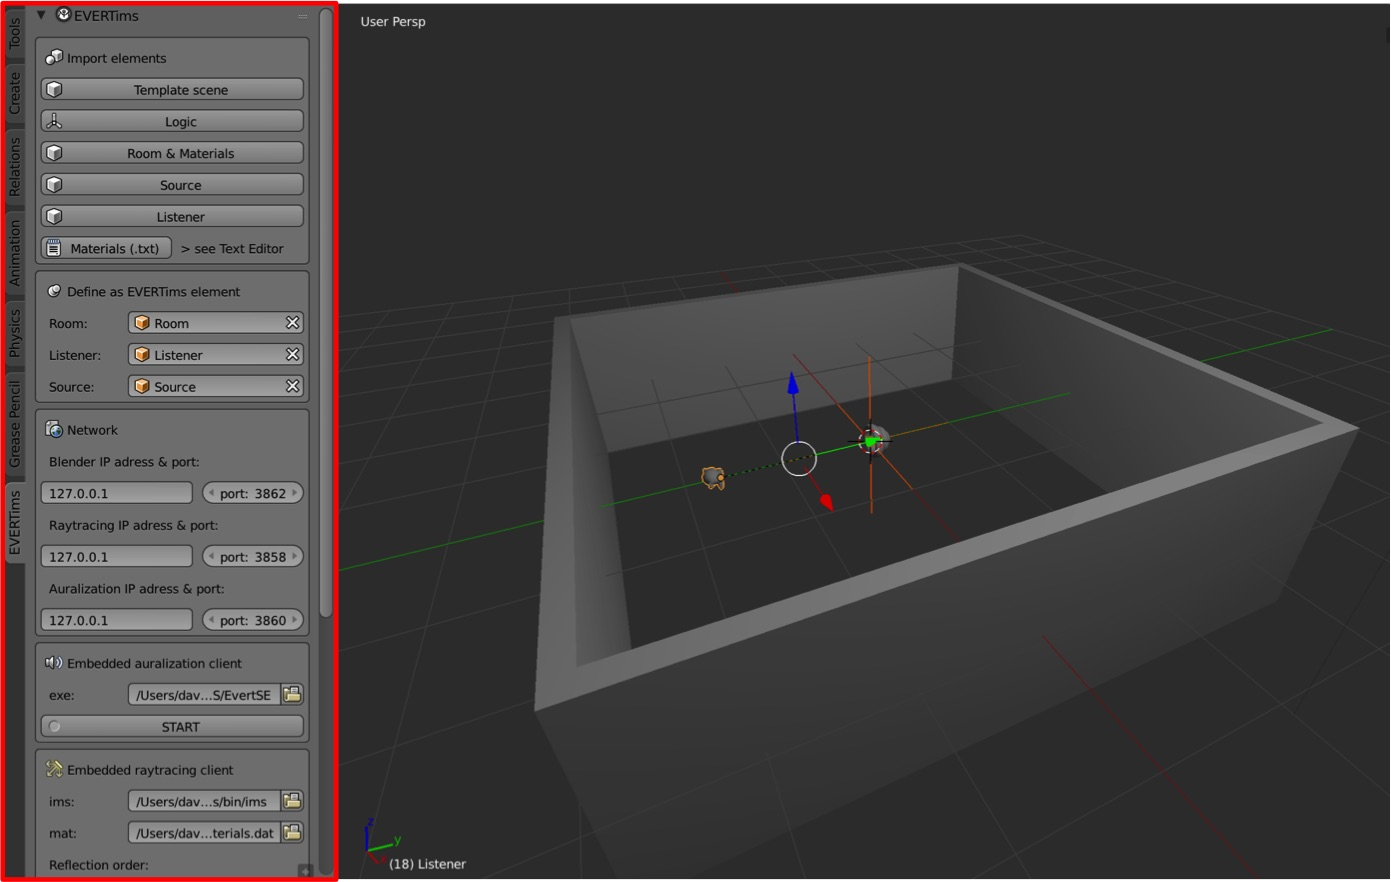
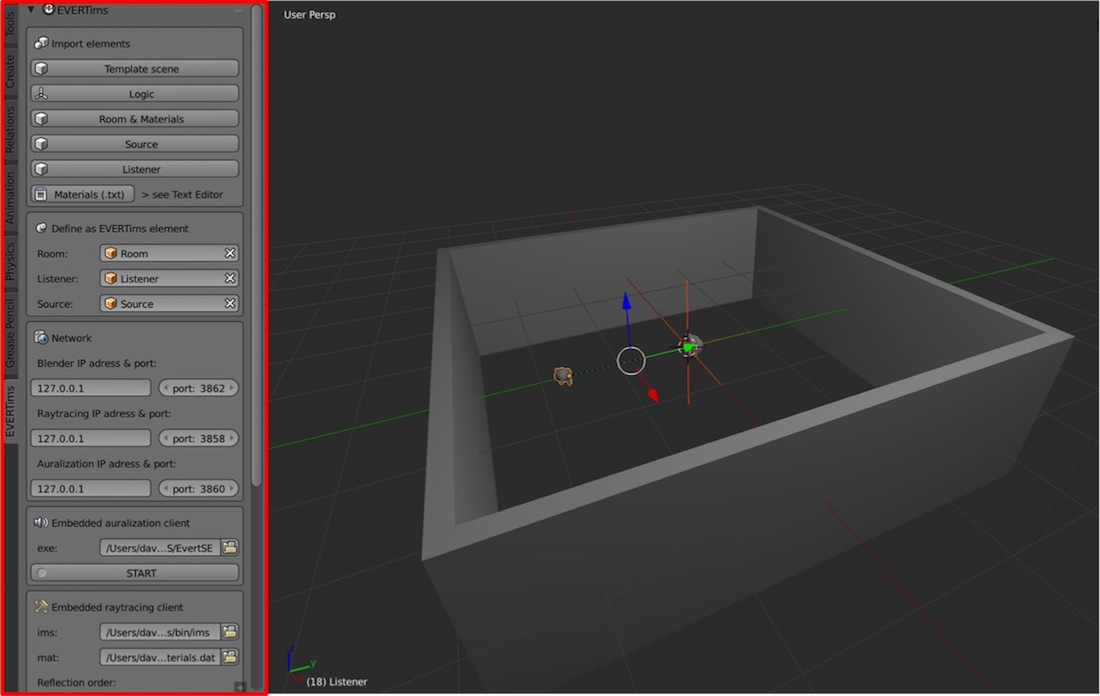
exported screenshot from prev. commit to jpg (size)

diff --git a/pages/install-instructions.html b/pages/install-instructions.html
@@ -214,7 +214,7 @@ socket      : OK
             </div>
             <div align="middle" class="col-xs-12">
                 <p>
-                <img src="{{ site.baseurl }}/img/blender-addon-screenshot.png" class="img-responsive img-framed-on-primary" alt="">
+                <img src="{{ site.baseurl }}/img/blender-addon-screenshot.jpg" class="img-responsive img-framed-on-primary" alt="">
                 </p>
             </div>
 
